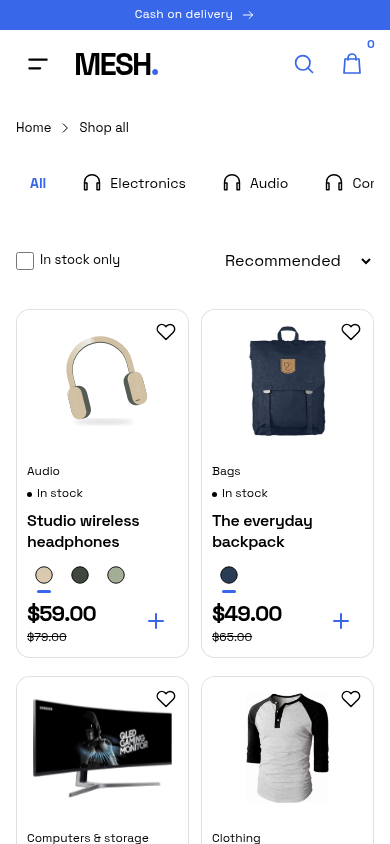
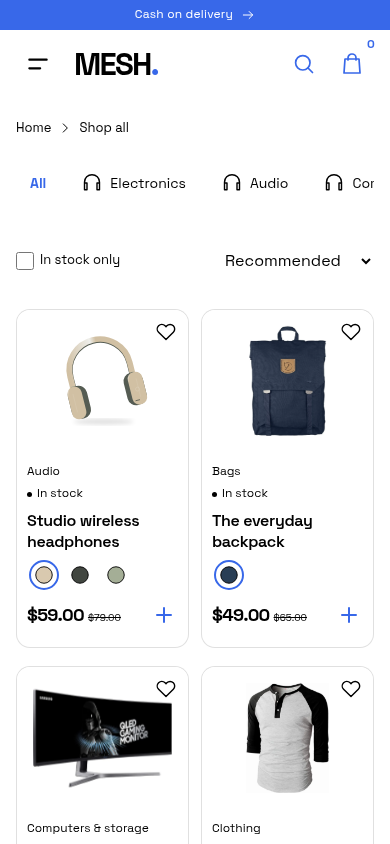
Compact inline prices, ring selected colors, and soften page arrivals

diff --git a/public/css/store-interactions.css b/public/css/store-interactions.css
@@ -46,7 +46,7 @@
 .mobile-navigation.is-closing { animation: drawer-leave .32s cubic-bezier(.4,0,.2,1) forwards; }
 .card-colors { display: flex; flex-wrap: nowrap; overflow-x: auto; gap: 2px; min-height: 44px; padding-bottom: 6px; margin-bottom: 12px; scrollbar-width: thin; }
 .card-colors button { flex: 0 0 34px; min-height: 38px; display: grid; place-items: center; position: relative; padding: 4px; border: 0; background: #fff; color: #000; }
-.card-colors button[aria-pressed=true]::after { content: ''; position: absolute; width: 14px; height: 3px; border-radius: 3px; left: calc(50% - 7px); bottom: 0; background: #000; }
+.card-colors button[aria-pressed=true] svg { outline: 2px solid var(--store-accent-ink); outline-offset: 2px; border-radius: 50%; }
 .product-bottom { align-items: flex-start; margin-bottom: 4px; }
 .save-button, .save-button.is-saved, .save-button:hover { border: 0; background: transparent; color: #000; border-radius: 0; }
 .save-button.is-saved, .save-button.is-saved:hover, .save-detail.is-saved { color: var(--store-accent-ink); background: transparent; }
@@ -175,31 +175,43 @@
 .product-card .product-visual { aspect-ratio: 1.2; max-height: 240px; flex-shrink: 0; }
 .product-card .product-image-link { padding: 16px; }
 .product-card .product-card-body { padding: 12px; }
-.product-card .card-colors { margin: 0 0 2px; padding-bottom: 4px; min-height: 40px; }
+.product-card .card-colors { margin: 0; padding-bottom: 0; min-height: 36px; }
 .product-card .card-colors button { min-height: 36px; }
-.product-card .card-colors button[aria-pressed=true]::after { background: var(--store-accent-ink); }
-.product-purchase-row { display: flex; flex-wrap: wrap; align-items: flex-start; justify-content: space-between; gap: 4px 0; margin-top: auto; min-height: 56px; }
+.product-purchase-row { display: flex; align-items: center; justify-content: space-between; gap: 0; margin-top: auto; min-height: 44px; }
 .product-purchase-row .product-bottom { min-height: 0; margin: 0; }
-.product-purchase-row .price del { display: block; margin: 3px 0 0; font-size: 12px; }
+.product-purchase-row .price { display: flex; align-items: baseline; gap: 6px; font-size: 23px; white-space: nowrap; }
+.product-purchase-row .price del { display: inline; margin: 0; font-size: 11px; font-weight: 400; }
 .product-card .product-card-action { position: static; margin: 0 0 0 auto; padding: 0; width: 44px; flex: 0 0 44px; }
 .product-card .card-cart-button { color: var(--store-accent-ink); }
 .product-card .card-cart-button .icon { stroke-width: 2; }
 @media (max-width: 600px) {
  .product-card .product-card-body { padding: 10px; }
- .product-purchase-row .price { font-size: 22px; }
- .product-purchase-row { min-height: 48px; }
+ .product-purchase-row .price { font-size: 18px; gap: 4px; letter-spacing: -.7px; }
+ .product-purchase-row .price del { font-size: 10px; }
+ .product-carousel .product-purchase-row .price { font-size: 16px; gap: 3px; letter-spacing: -1px; }
+ .product-carousel .product-purchase-row .price del { font-size: 9px; }
+ .product-card .product-card-action { margin-inline: -6px -8px; }
  .product-grid { gap: 18px 12px; }
 }
-@media (max-width: 359px) { .product-purchase-row .price { font-size: 20px; letter-spacing: -1.2px; } }
-/* The same saved accent covers the benefits and footer, with readable foregrounds. */
-.store-footer-area { background: var(--store-accent); color: var(--store-on-accent); margin-top: 24px; }
-.store-footer-area .benefits, .store-footer-area .site-footer { background: transparent; color: inherit; }
-.store-footer-area .benefits { margin-top: 0; }
-.store-footer-area .site-footer { padding-top: 0; }
+@media (max-width: 359px) {
+ .product-card .product-card-body { padding: 8px; }
+ .product-card .product-card-action { margin-inline: -6px; }
+ .product-purchase-row .price, .product-carousel .product-purchase-row .price { font-size: 15px; gap: 2px; letter-spacing: -.7px; }
+ .product-purchase-row .price del, .product-carousel .product-purchase-row .price del { font-size: 9px; }
+ .carousel-track { grid-auto-columns: max(138px, calc((100% - 20px) / 2.15)); }
+}
+.product-info .buy-row { display: grid; grid-template-columns: repeat(2, minmax(0, 1fr)); gap: 10px; }
+.product-info .buy-row .quantity-label, .product-info .buy-row .quantity-control { grid-column: 1 / -1; }
+.product-info .buy-row .quantity-control { justify-self: start; }
+.product-info .buy-row .add-bag, .product-info .buy-row .buy-now { min-width: 0; padding-inline: 12px; justify-content: center; gap: 6px; }
+/* Benefits stay white; only the footer takes the saved accent. */
+.benefits { background: #fff; color: #000; }
+.benefits-grid .icon { color: var(--store-accent-ink); }
+.store-footer-area { background: var(--store-accent); color: var(--store-on-accent); }
+.store-footer-area .site-footer { background: transparent; color: inherit; padding-top: 0; }
 .store-footer-area .made-in { display: inline-flex; align-items: center; gap: 8px; }
 .store-footer-area .made-in .icon { width: 14px; height: 14px; transform: rotate(-45deg); }
 .store-footer-area .logo, .store-footer-area .logo-dot,
-.store-footer-area .benefits-grid .icon, .store-footer-area .benefits-grid small,
 .store-footer-area .footer-brand p, .store-footer-area .made-in, .store-footer-area .made-in > span,
 .store-footer-area .footer-top > div > a:not(.logo), .store-footer-area .footer-bottom { color: inherit; }
 .footer-policy-links { display: flex; flex-wrap: wrap; gap: 4px 20px; }

diff --git a/public/css/store-motion.css b/public/css/store-motion.css
@@ -1,7 +1,12 @@
-/* Page content stays visible during navigation; only scrolling is smoothed. */
-#main { opacity: 1 !important; transform: none !important; animation: none !important; }
+/* Arrival movement keeps content opaque and leaves navigation to the browser. */
+#main { opacity: 1 !important; animation: page-arrive .22s ease-out; }
+.product-detail .product-gallery { animation: product-arrive .32s cubic-bezier(.22,1,.36,1) both; }
+.product-detail .product-info { animation: product-arrive .36s .04s cubic-bezier(.22,1,.36,1) both; }
+@keyframes page-arrive { from { transform: translateY(8px); } to { transform: translateY(0); } }
+@keyframes product-arrive { from { transform: translateY(10px); } to { transform: translateY(0); } }
 html, .cart-dialog-body, .drawer-content, .catalog-category-nav, .category-nav-track, .carousel-track { scroll-behavior: smooth; }
 .cart-dialog-body, .drawer-content, .category-nav-track, .carousel-track { -webkit-overflow-scrolling: touch; }
 @media (prefers-reduced-motion: reduce) {
+    #main, .product-detail .product-gallery, .product-detail .product-info { animation: none; }
     html, .cart-dialog-body, .drawer-content, .catalog-category-nav, .category-nav-track, .carousel-track { scroll-behavior: auto; }
 }

diff --git a/public/js/store/page-motion.js b/public/js/store/page-motion.js
@@ -1,2 +1,12 @@
 // Kept for previously cached entry modules; navigation must never hide content.
 export function navigate(url) { location.assign(url); }
+
+// Restored documents do not replay CSS entry animations, so give Back/Forward
+// the same small movement without changing scroll position or delaying links.
+addEventListener("pageshow", (event) => {
+    if (!event.persisted || matchMedia("(prefers-reduced-motion: reduce)").matches) return;
+    document.getElementById("main")?.animate(
+        [{ transform: "translateY(8px)" }, { transform: "translateY(0)" }],
+        { duration: 220, easing: "cubic-bezier(.22,1,.36,1)" },
+    );
+});

diff --git a/public/js/store.js b/public/js/store.js
@@ -17,3 +17,4 @@ import "./store/category-navigation.js";
 
 import "./store/search.js";
 import "./store/cookies.js";
+import "./store/page-motion.js";

diff --git a/resources/views/layouts/store.blade.php b/resources/views/layouts/store.blade.php
@@ -54,7 +54,6 @@
         <x-flash />@yield('content')
     </main>
     @unless(View::hasSection('hide-footer'))
-    <div class="store-footer-area">
     <section class="benefits">
         <div class="container benefits-grid">
             <div><x-icon name="truck" /><span><strong>Delivery in Lebanon</strong><small>Delivery to selected
@@ -64,6 +63,7 @@
             <div><x-icon name="sparkles" /><span><strong>Stock checked at checkout</strong><small>Order quantities are confirmed when you buy</small></span></div>
         </div>
     </section>
+    <div class="store-footer-area">
     <footer class="site-footer">
         <div class="container footer-top">
             <div class="footer-brand"><a class="logo"

diff --git a/resources/views/components/product-card.blade.php b/resources/views/components/product-card.blade.php
@@ -35,7 +35,7 @@ $initialImage = ($firstColor ? $product->images->firstWhere('product_color_id', 
 
     <div class="product-purchase-row">
     <div class="product-bottom">
-        <div class="price">${{ number_format($product->price_cents / 100, 2) }} @if ($product->compare_price_cents > $product->price_cents)
+        <div class="price"><span>${{ number_format($product->price_cents / 100, 2) }}</span> @if ($product->compare_price_cents > $product->price_cents)
                 <del>${{ number_format($product->compare_price_cents / 100, 2) }}</del>
             @endif
         </div>

diff --git a/design-qa.md b/design-qa.md
@@ -6,7 +6,7 @@ final result: passed
 
 The store keeps the approved four-column desktop/two-column phone catalog, horizontal home carousel, responsive gallery, and mobile side drawer. Its identity uses Space Grotesk, one owner-selected accent, black and white, light black-alpha product borders, and no decorative shadows. Genuine product colors and photos retain their colors. Header search/cart icons have transparent backgrounds and use the saved accent.
 
-Page content stays visible throughout ordinary navigation. There are no page opacity transitions or delayed page-link interception. Native history and scrolling remain available, with smooth scrolling and reduced-motion support.
+Page content stays fully opaque throughout ordinary navigation. A short arrival slide gives links/category changes a gentle movement while keeping the header still. Restored Back/Forward pages get the same small movement without changing their scroll position. Product galleries and information have a slight staggered entry movement. There is no page fade, blank loading state, or delayed page-link interception. Native history and scrolling remain available, and reduced-motion preferences suppress these animations.
 
 Top picks advances by one card every five seconds and loops at the end. Manual swiping and desktop arrows remain available, alongside an unframed accent pause/resume control. Automatic movement pauses on hover/focus/touch, with open dialogs, in hidden tabs, and outside the viewport. Reduced-motion preferences disable autoplay. The search dialog's submit and close icons use the accent without filled backgrounds, including hover.
 
@@ -20,13 +20,13 @@ Fields have white surfaces, black text, and a single underline. The phone field 
 
 The centered search dialog has one underline, debounced live suggestions, cancellation of older requests, and keyboard selection. Each result links to its product detail page. Typing, submitting, or closing search does not filter or navigate the underlying shop page. Candidate lookup is bounded and briefly cached; visibility and prices are checked fresh without opening a customer session. Product names render as text, with escaped literal SQL wildcard searches.
 
-Product cards have slight borders, selectable colors above pricing, and a simple plus action beside the price. Reduced image height, title spacing, and color/price spacing shorten the cards by roughly 15–20% at phone/desktop reference sizes without shrinking product-name type. Prices align across each row, and plus controls remain alongside prices at 320px. Color selection changes the linked image and cart color, including products with a single color. Favorites stay unframed and fill with the selected accent when saved. Badges and five-second notifications also use the selected accent. Cart/favorite mutations do not refresh the page or reset scroll.
+Product cards have slight borders, selectable colors above pricing, and a simple plus action beside the price. A circular accent ring identifies the selected swatch; the underline is removed. Current and crossed-out comparison prices sit beside one another in a single 44px purchase row, so discounts do not reserve a second line. Compact price sizing adapts to phone/carousel widths; plus controls retain their 44px targets. Color selection changes the linked image and cart color, including products with a single color. Product-detail Add to cart and Buy it now actions sit beside one another. Favorites stay unframed and fill with the selected accent when saved. Badges and five-second notifications also use the selected accent. Cart/favorite mutations do not refresh the page or reset scroll.
 
 All remains fixed beside a separate scrolling category track. The selected category centers inside that track, icons retain their size, long names truncate, and the scrollbar stays hidden. Active storefront links use bold accent text on a transparent background. Close controls have a transparent background and accent icons, retaining 44px dialog/drawer targets.
 
 ## Footer, legal pages, and cookies
 
-Benefits and the footer share the saved accent background with automatic black/white foreground contrast. Privacy policy and Terms & conditions have their own responsive pages and links from help, the footer, and checkout review. No footer is inserted into the cart/checkout sheet.
+The benefits section stays white with black text and accent icons. The footer uses the saved accent background with automatic black/white foreground contrast. Privacy policy and Terms & conditions have their own responsive pages and links from help, the footer, and checkout review. No footer is inserted into the cart/checkout sheet.
 
 The nonblocking cookie notice explains the existing essential shopping/security cookies. There are no advertising/analytics cookies or invented optional-tracking switches. Acknowledgement lasts 180 days, survives navigation/reload, and can be reopened from the footer. The encrypted cookie is HttpOnly and SameSite=Lax, and Secure on HTTPS. The endpoint retains CSRF/session protection and serializes with cart mutations. The HTML form works without JavaScript; the footer then links to the cookie explanation.
 
@@ -44,11 +44,14 @@ The nonblocking cookie notice explains the existing essential shopping/security 
 | Footer contrast | [Dark accent](docs/screenshots/footer-mobile.png), [light accent](docs/screenshots/footer-light-accent-mobile.png) |
 | Privacy, terms, and cookie notice | [Privacy](docs/screenshots/privacy-mobile.png), [terms](docs/screenshots/terms-mobile.png), [notice](docs/screenshots/cookie-notice-mobile.png) |
 | Gallery | [Desktop](docs/screenshots/product-desktop.png), [phone](docs/screenshots/product-mobile.png) |
+| Product purchase actions | [Phone](docs/screenshots/product-actions-mobile.png) |
 | Admin | [Desktop](docs/screenshots/admin-desktop.png), [phone](docs/screenshots/admin-mobile.png) |
 
 ## Verification
 
 - MySQL: **67 tests / 554 assertions**, including policy links, cookie version validation, encrypted cookie attributes/lifetime, cart/session preservation, HTML fallback, live-search bounds, literal wildcard handling, validated input, session-free responses, cached-candidate visibility, role authorization, stock safety, idempotent orders, and Lebanese phone normalization.
+- The swatch/price/motion revision passed **32 responsive checks** across home, catalog, Jewelry, and product detail at 320, 360, 390, 412, 768, 1024, 1440, and 1920px. Current/comparison prices stayed beside each other, every purchase row stayed 44px tall, and plus targets remained inside their cards without price overlap. Product purchase buttons stayed beside each other at every width. Price, availability, and stock rules were unchanged.
+- Browser checks verified the selected swatch ring, linked image changes, selected-color asynchronous cart add without scroll reset, Buy it now opening checkout, and white benefits/accent-only footer with dark/light theme contrast. Navigation checks covered product/category links, Back, and entry movement. All sampled content opacity stayed at 1; animation keyframes only translated content. Reduced-motion checks found no page/product animations.
 - The preceding shopping revision passed **111 public/admin page-and-viewport checks** at 320, 360, 390, 768, 1024, 1440, and 1920px. This revision adds **30 public page-and-viewport checks** at 320, 390, 768, 1440, and 1920px, including home and both new legal pages, with no horizontal document overflow, expanded mobile layout viewport, or JavaScript errors. Home/cookie reachability also passed at 360 and 1024px. The card action now contains its absolutely positioned screen-reader label so off-screen carousel labels cannot expand the mobile viewport.
 - Real Chromium verified notice dismissal/reload/reopening, rejection of a missing CSRF token, the no-JavaScript HTML fallback, transparent close/active states, and dark-magenta/light-yellow theme contrast for the footer, badges, and filled hearts. Theme previews used the real theme CSS endpoint without changing saved store settings.
 - Top picks passed real-time five-second advancement, card stepping, end-to-start looping, pause/resume icon state, desktop hover/keyboard-focus pauses, reduced-motion suppression, and pausing while a dialog is open. Search submit/close controls retained transparent backgrounds on hover and 44px+ targets.

diff --git a/README.md b/README.md
@@ -109,7 +109,9 @@ The catalog, product names, prices, and descriptions are demo content. Replace t
 
 MESH keeps the requested retail layouts while using its own visual identity with light product-card borders: locally hosted Space Grotesk, sentence-case product names, black prices, and rounded actions. The interface uses only **one owner-selected accent, black, and white**; product images and actual color swatches keep their colors. Choose the accent in **Store settings → Website appearance → Main color**. Button labels use black or white to remain readable. The storefront includes a touch-friendly product carousel, a four-column desktop/two-column phone catalog, and a responsive thumbnail gallery. The phone menu opens in a side drawer with a softly blurred backdrop and smooth sliding transitions. Product cards have a light border, selectable colors above the price, a simple plus action beside the price, and an unframed favorite icon at the top. Phone scrollbars and category-strip scrollbars are hidden; All stays pinned beside the scrolling category bar; selected categories center automatically within that bar. Cart and checkout share a rounded bottom sheet covering 90% of the viewport, with soft backdrop blur. The first phase shows cart items and Proceed to checkout. The next phase contains name, Lebanese phone (+961), address, delivery selection, order review, totals, and Place order, without an email field or footer. Back to cart retains entered details. Search opens in a centered dialog with debounced live suggestions linking to product details; closing or submitting that dialog does not filter the underlying shop page; the header hides while scrolling down and returns when scrolling up. Category/page navigation keeps content visible and uses native browser history, with smooth scrolling. Motion respects reduced-motion preferences. Header search/cart icons use the saved accent on a transparent background. Cart/favorite actions use JSON without a page reload; notifications appear at the top right for five seconds. Admin introductions and the role guide have been removed; stock fields adapt to tracked/open quantity. See [design QA](design-qa.md) for screenshots and responsive checks.
 
-Active storefront navigation uses bold accent text without a filled background. Close icons are unframed. Badges, saved hearts, notifications, and the benefits/footer use the selected accent; foregrounds on the accent use black or white for contrast. Compact cards keep colors close to product names and align prices, with the plus action alongside them even at 320px.
+Active storefront navigation uses bold accent text without a filled background. Close icons are unframed. Badges, saved hearts, notifications, and the footer use the selected accent; foregrounds on the accent use black or white for contrast. The delivery/payment benefits stay white with black text and accent icons. Selected card colors use a circular accent ring instead of an underline. Current and crossed-out comparison prices sit beside one another in a single 44px purchase row, with the plus action alongside them even at 320px. Product-detail Add to cart and Buy it now buttons also sit beside one another.
+
+Navigation uses a short slide on arrival; the header stays still and content stays fully opaque. Restored Back/Forward pages get the same small movement while preserving scroll position. Product galleries and information have a slight staggered entry movement. Native history and unmodified links remain available, and reduced-motion preferences suppress these animations. No page-link delay, page fade, or loading overlay is introduced.
 
 Top picks advances by one card automatically after five seconds, looping back at the end. Manual swiping/arrows still work. A transparent accent pause/resume icon is available; motion pauses during hover, keyboard focus, touch interaction, open dialogs, hidden browser tabs, and when the carousel is outside the viewport. Reduced-motion preferences disable automatic scrolling. The centered search dialog's search and close actions are also transparent accent icons.
 

diff --git a/docs/VALIDATION.md b/docs/VALIDATION.md
@@ -64,3 +64,9 @@ The compact-card, accent-state, and legal-page revision passed **67 MySQL tests 
 Real Chromium verified another **30 page/viewport combinations** at 320, 390, 768, 1440, and 1920px, including home and both new legal pages, with no document overflow, expanded mobile layout viewport, or JavaScript errors. First-row cards were about 15–20% shorter at the phone/desktop reference sizes. Plus buttons remained alongside prices at 320px, active categories remained centered and unfilled, and add/save kept the page and scroll position. Dark magenta and light yellow previews verified footer/badge foreground contrast, accent-filled saved hearts, transparent close buttons, and bold unfilled active navigation. Cookie acknowledgement survived reload; the footer reopened the notice; a real missing-CSRF request was rejected; dismissal also worked with JavaScript disabled. Existing staged checkout still showed cart items first, then details/order review with the new legal links. No optional tracking or third-party cookie code was added.
 
 Top picks autoplay passed actual five-second timing, one-card advancement, end-to-start looping, pause/resume icon state, desktop hover/focus pauses, reduced-motion suppression, and pausing with a dialog open. Search submit and close icons had transparent backgrounds, including hover, with 44px+ targets. The carousel's screen-reader labels are now contained by their card buttons; this fixes an off-screen absolute-label overflow that expanded the mobile layout viewport and displaced fixed UI. Fresh-home cookie dismissal and viewport widths passed at 320, 360, 390, 768, 1024, 1440, and 1920px.
+
+The next swatch/price/motion revision retained **67 MySQL tests / 554 assertions** and passed **32 responsive checks** (home, catalog, Jewelry, and product detail at 320, 360, 390, 412, 768, 1024, 1440, and 1920px). Selected swatches use a circular accent outline instead of an underline. Current and comparison prices remain on the same line inside a 44px purchase row; full 44px plus targets stay within their cards without overlapping the rendered price. Product purchase buttons share a row at all checked widths. Benefits stay white with black text and accent icons; only the footer background uses the saved accent. Dark/light contrast, linked swatch images, asynchronous selected-color add without a scroll jump, and Buy it now opening checkout passed.
+
+Page navigation uses transform-only arrival movement below a stationary header; restored Back/Forward documents get the same movement without changing scroll position. Product gallery/information entry animations are also transform-only. Real Chromium exercised product/category links and Back, sampled content opacity during entry (always 1), and verified reduced-motion suppression. Navigation remains ordinary browser navigation. No custom exit delay, opacity fade, or blank loading layer was added.
+
+A separate Chromium run with its normal back/forward cache enabled verified a real persisted-page restoration: the transform-only arrival animation ran and the previous 658px scroll position was preserved exactly.
